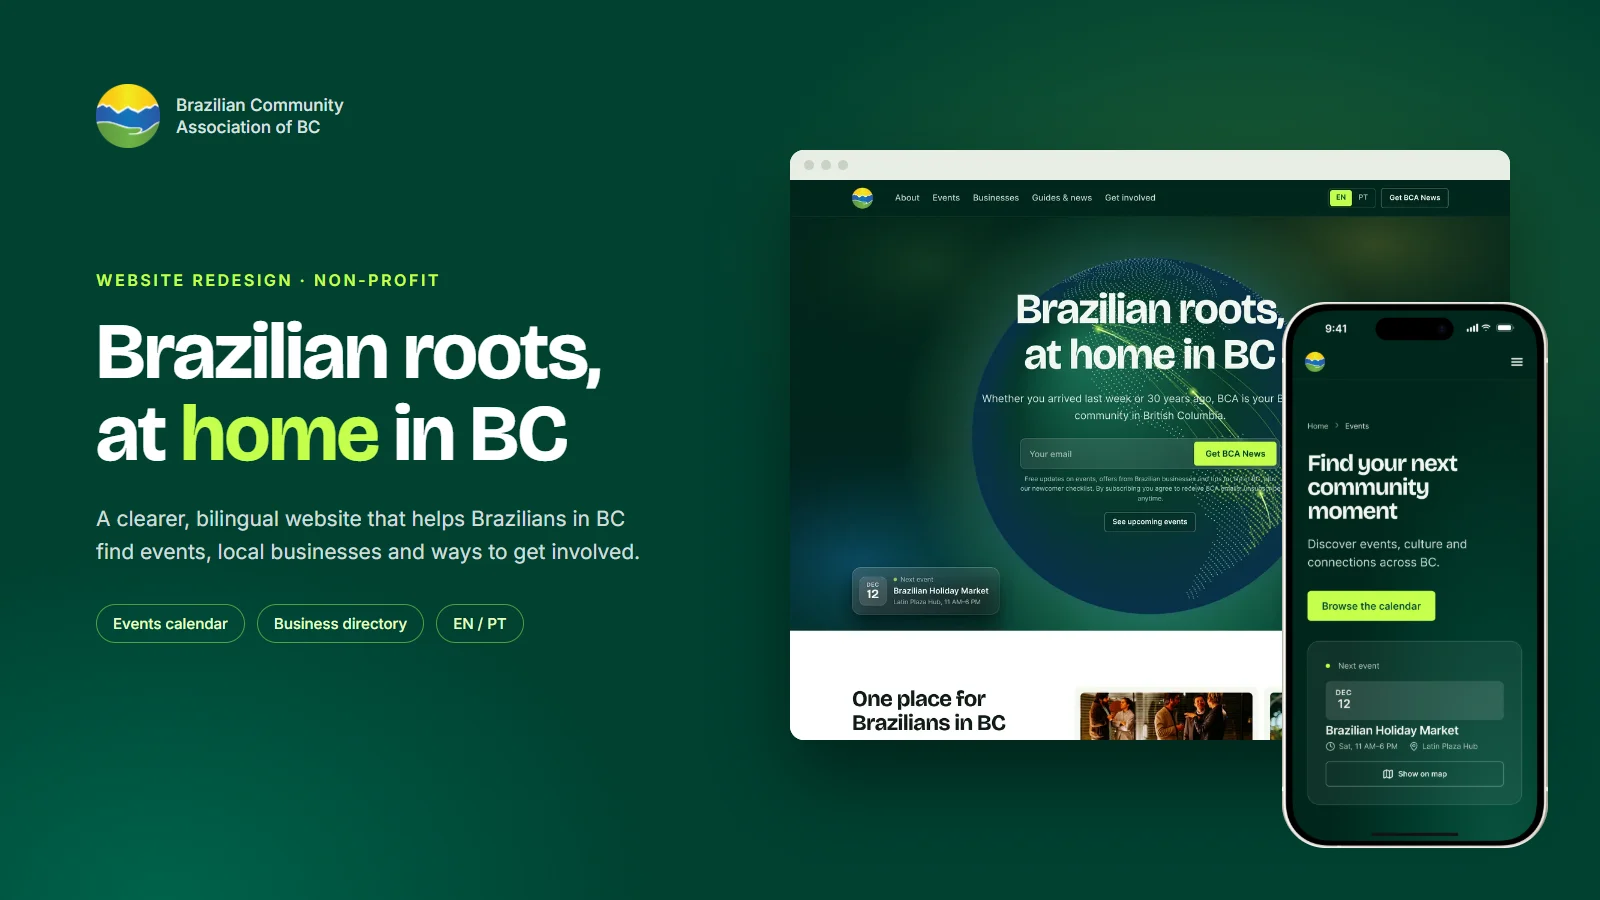
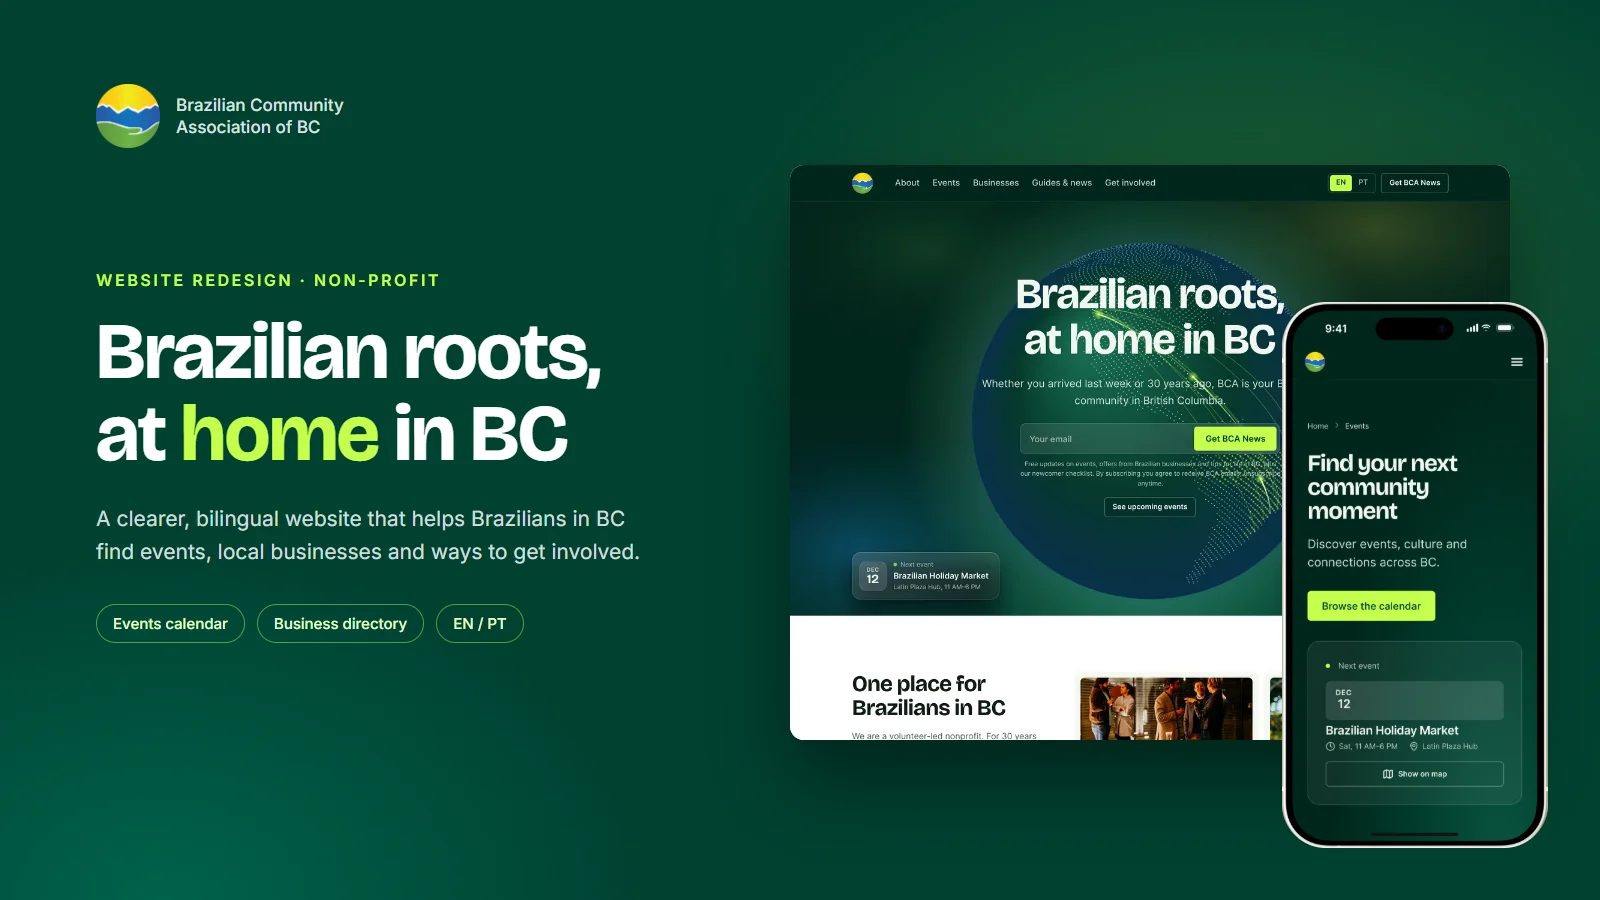
Remove the browser bar from the BCA cover, showing only the real page design

diff --git a/scripts/bca-cover.html b/scripts/bca-cover.html
@@ -28,10 +28,8 @@
   .lede { margin-top: 28px; font-size: 21px; line-height: 1.55; color: rgba(255,255,255,.82); width: 560px; }
   .chips { margin-top: 36px; display: flex; gap: 12px; }
   .chips span { font-size: 15px; font-weight: 500; padding: 9px 16px; border-radius: 999px; border: 1px solid rgba(197,255,75,.45); color: #E9FFC2; }
-  .browser { position: absolute; left: 790px; top: 150px; width: 720px; border-radius: 14px; overflow: hidden; background: #fff; box-shadow: 0 40px 80px rgba(0,0,0,.45); }
-  .browser .bar { height: 30px; background: #E8EEE5; display: flex; align-items: center; gap: 7px; padding-left: 14px; }
-  .browser .bar i { width: 10px; height: 10px; border-radius: 50%; background: #c9d3c5; }
-  .browser .shot { height: 560px; background: url('../public/images/projects/bca-web-home.webp') top / 100% auto no-repeat; }
+  .browser { position: absolute; left: 790px; top: 165px; width: 720px; border-radius: 14px; overflow: hidden; background: #fff; box-shadow: 0 40px 80px rgba(0,0,0,.45); }
+  .browser .shot { height: 575px; background: url('../public/images/projects/bca-web-home.webp') top / 100% auto no-repeat; }
   .phone { position: absolute; width: 270px; clip-path: inset(2px round 44px); filter: drop-shadow(0 30px 50px rgba(0,0,0,.5)); }
   .p1 { left: 1280px; top: 300px; }
 </style>
@@ -44,7 +42,7 @@
     <p class="lede">A clearer, bilingual website that helps Brazilians in BC find events, local businesses and ways to get involved.</p>
     <div class="chips"><span>Events calendar</span><span>Business directory</span><span>EN / PT</span></div>
   </div>
-  <div class="browser"><div class="bar"><i></i><i></i><i></i></div><div class="shot"></div></div>
+  <div class="browser"><div class="shot"></div></div>
   <img class="phone p1" src="../design-exports/bca/m-events.png" alt="" />
 </body>
 </html>
